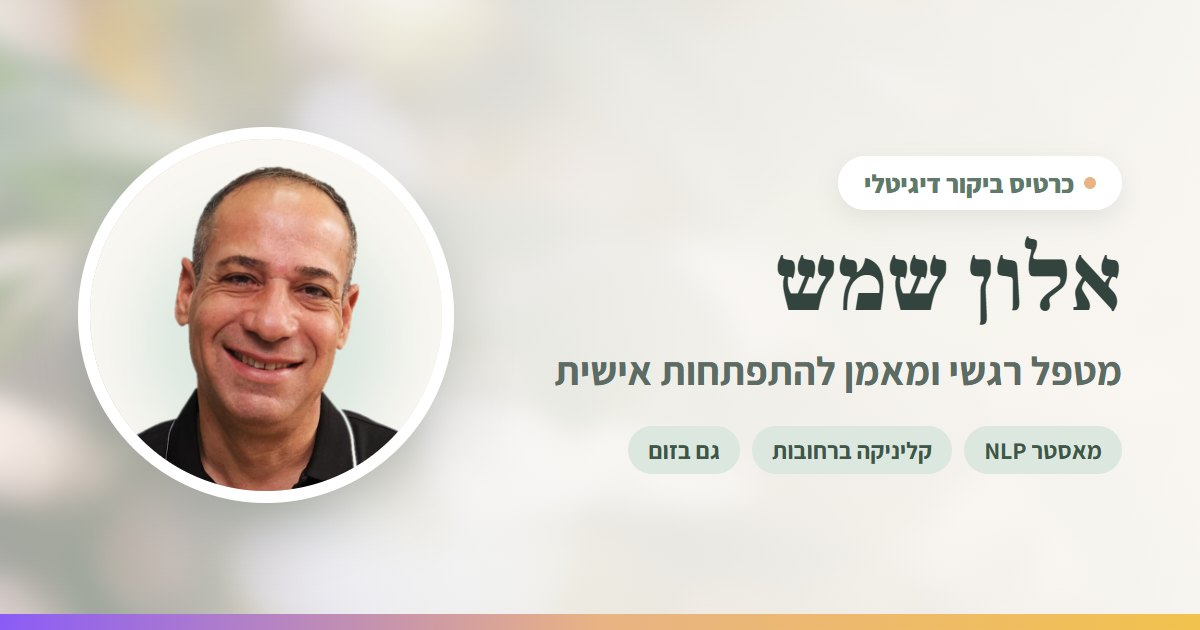
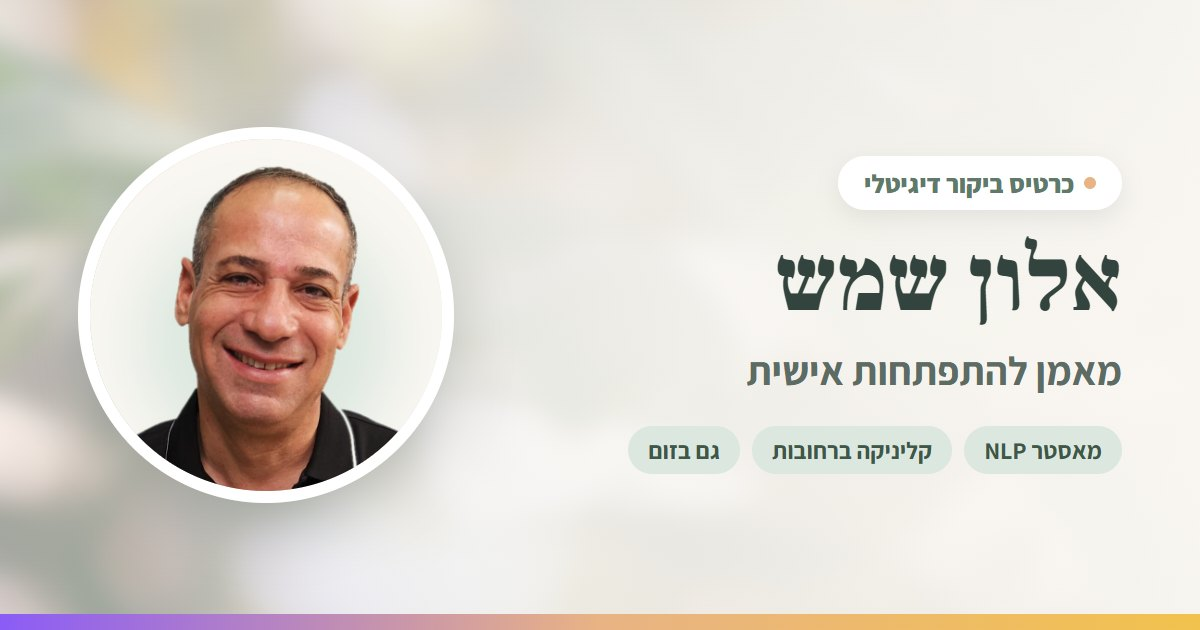
card: scan-to-site QR, and drop "מטפל רגשי" from the title
Adds Alon's own pdf24 QR (decodes to https://www.alonsms.com/) as a
scan block above the footer.

His title on the card is now "מאמן להתפתחות אישית" only, applied
everywhere the card renders it: role line, OG title, JSON-LD jobTitle,
avatar alt, share text, footer tagline and the downloadable vCard. The
"בוגר בית הספר תות תקשורת" credential chip is removed.

Changed region(s): [[0.4625, 0.573, 0.925, 0.6333]]

diff --git a/card.html b/card.html
@@ -4,7 +4,7 @@
 <meta charset="UTF-8">
 <meta name="viewport" content="width=device-width, initial-scale=1.0">
 <title>אלון שמש | כרטיס ביקור דיגיטלי</title>
-<meta name="description" content="אלון שמש, מטפל רגשי ומאמן להתפתחות אישית ברחובות. כל דרכי ההתקשרות במקום אחד. כנסו לפרטים.">
+<meta name="description" content="אלון שמש, מאמן להתפתחות אישית ברחובות. כל דרכי ההתקשרות במקום אחד. כנסו לפרטים.">
 <!-- כרטיס הביקור מכוון לשיתוף ישיר (קישור/QR) ולא לתוצאות החיפוש. הוא חוזר על
      המסרים של עמוד הבית, ולכן noindex מונע קניבליזציה; follow שומר על העברת קישורים. -->
 <meta name="robots" content="noindex, follow">
@@ -17,7 +17,7 @@
 <meta property="og:site_name" content="אלון שמש">
 <meta property="og:locale" content="he_IL">
 <meta property="og:url" content="https://www.alonsms.com/card">
-<meta property="og:title" content="אלון שמש | מטפל רגשי ומאמן להתפתחות אישית">
+<meta property="og:title" content="אלון שמש | מאמן להתפתחות אישית">
 <meta property="og:description" content="כרטיס הביקור הדיגיטלי של אלון שמש. חיוג, וואטסאפ, ניווט לקליניקה ושמירה באנשי הקשר בלחיצה אחת.">
 <meta property="og:image" content="https://www.alonsms.com/assets/og/card.jpg">
 <meta property="og:image:width" content="1200">
@@ -30,7 +30,7 @@
 
 <script type="application/ld+json">
 {"@context":"https://schema.org","@type":"Person","name":"אלון שמש",
-"jobTitle":"מטפל רגשי ומאמן להתפתחות אישית",
+"jobTitle":"מאמן להתפתחות אישית",
 "url":"https://www.alonsms.com/","image":"https://www.alonsms.com/assets/card-avatar.jpg",
 "telephone":"+972-54-3333265","email":"alonsms73@gmail.com",
 "address":{"@type":"PostalAddress","streetAddress":"דובנוב 51","addressLocality":"רחובות","addressCountry":"IL"},
@@ -291,6 +291,27 @@ button{font:inherit;color:inherit;background:none;border:0;cursor:pointer}
 .native.on{display:flex}
 .native svg{width:19px;height:19px}
 
+/* ---------------------------------------------------------- scan-me */
+.scan{
+  display:flex;align-items:center;gap:16px;
+  background:var(--cream);border:1px solid var(--line);border-radius:18px;padding:15px 16px;
+}
+.scan-code{
+  width:112px;height:112px;flex:none;background:#fff;border-radius:13px;padding:7px;
+  box-shadow:0 4px 14px rgba(51,68,62,.09);
+}
+.scan-code img{width:100%;height:100%;image-rendering:pixelated}
+.scan b{display:block;font-size:.98rem;font-weight:800}
+.scan p{font-size:.85rem;color:var(--ink-soft);line-height:1.5;margin-top:4px}
+.scan .url{
+  display:inline-block;margin-top:8px;font-size:.78rem;font-weight:700;
+  color:var(--sage-deep);background:var(--sage-soft);border-radius:999px;padding:3px 11px;
+  direction:ltr;
+}
+@media (max-width:359px){
+  .scan{flex-direction:column;text-align:center;gap:12px}
+}
+
 /* ---------------------------------------------------------- footer */
 .foot{
   background:var(--cream-2);padding:22px clamp(18px,5vw,26px);text-align:center;
@@ -405,18 +426,17 @@ body.has-sticky{padding-bottom:78px}
   </header>
 
   <div class="avatar-wrap">
-    <img class="avatar" src="assets/card-avatar.jpg" alt="אלון שמש, מטפל רגשי ומאמן להתפתחות אישית" width="760" height="760">
+    <img class="avatar" src="assets/card-avatar.jpg" alt="אלון שמש, מאמן להתפתחות אישית" width="760" height="760">
     <span class="avatar-badge" aria-hidden="true"><svg><use href="#i-sun"></use></svg></span>
   </div>
 
   <div class="pad">
     <div class="ident">
       <h1>אלון שמש</h1>
-      <p class="role">מטפל רגשי ומאמן להתפתחות אישית</p>
+      <p class="role">מאמן להתפתחות אישית</p>
       <div class="tags">
         <span>מאסטר NLP</span>
-        <span class="alt">בוגר בית הספר תות תקשורת</span>
-        <span class="sun">חבר לשכת ה-NLP הישראלית</span>
+        <span class="alt">חבר לשכת ה-NLP הישראלית</span>
       </div>
       <p class="where"><svg><use href="#i-pin"></use></svg>דובנוב 51, רחובות &middot; מפגשים גם בזום</p>
     </div>
@@ -562,13 +582,28 @@ body.has-sticky{padding-bottom:78px}
         <button type="button" class="q" data-qr><svg><use href="#i-qr"></use></svg>קוד QR</button>
       </div>
     </section>
+
+    <!-- ---------------------------------------------- סריקה לאתר -->
+    <!-- הקוד עצמו הוא הקובץ שאלון הפיק (pdf24), מקודד את https://www.alonsms.com/ -->
+    <section class="sec rv">
+      <div class="scan">
+        <span class="scan-code">
+          <img src="assets/card-site-qr.png" alt="קוד QR לסריקה שפותח את האתר alonsms.com" width="500" height="500" loading="lazy">
+        </span>
+        <span>
+          <b>סרקו לכניסה לאתר</b>
+          <p>מכוונים את מצלמת הטלפון לקוד, והאתר נפתח מיד בלי להקליד כתובת.</p>
+          <span class="url">alonsms.com</span>
+        </span>
+      </div>
+    </section>
   </div>
 
   <!-- ---------------------------------------------- פוטר -->
   <footer class="foot">
     <span class="mark"><svg viewBox="0 0 48 48" aria-hidden="true"><use href="#i-sun"></use></svg></span>
     <div class="nm">אלון שמש</div>
-    <div class="tagline">טיפול רגשי ואימון להתפתחות אישית</div>
+    <div class="tagline">אימון וליווי להתפתחות אישית</div>
     <nav class="lnk" aria-label="קישורי תחתית">
       <a href="./">לאתר המלא</a>
       <a href="contact">שיחת היכרות</a>
@@ -600,7 +635,7 @@ body.has-sticky{padding-bottom:78px}
   'use strict';
   var reduce = window.matchMedia('(prefers-reduced-motion: reduce)').matches;
   var URLC = 'https://www.alonsms.com/card';
-  var TITLE = 'אלון שמש | מטפל רגשי ומאמן להתפתחות אישית';
+  var TITLE = 'אלון שמש | מאמן להתפתחות אישית';
 
   document.querySelector('[data-year]').textContent = new Date().getFullYear();
 
